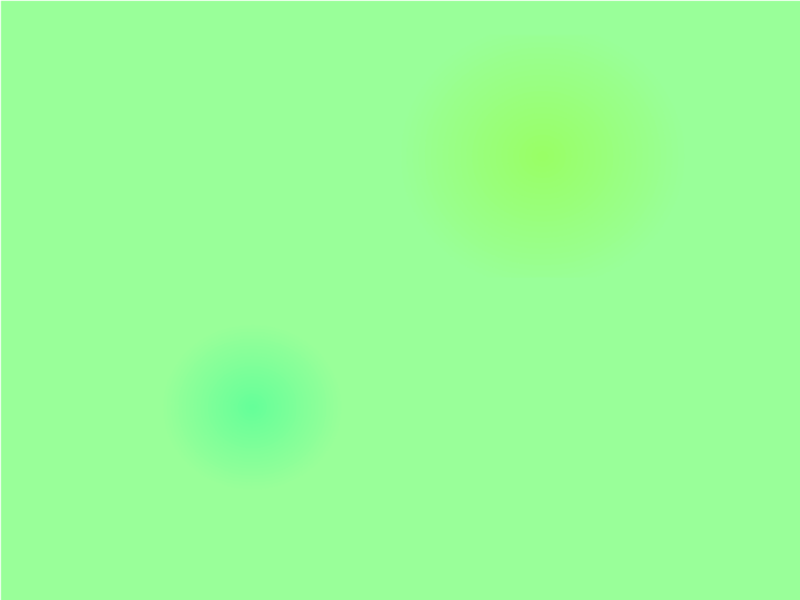
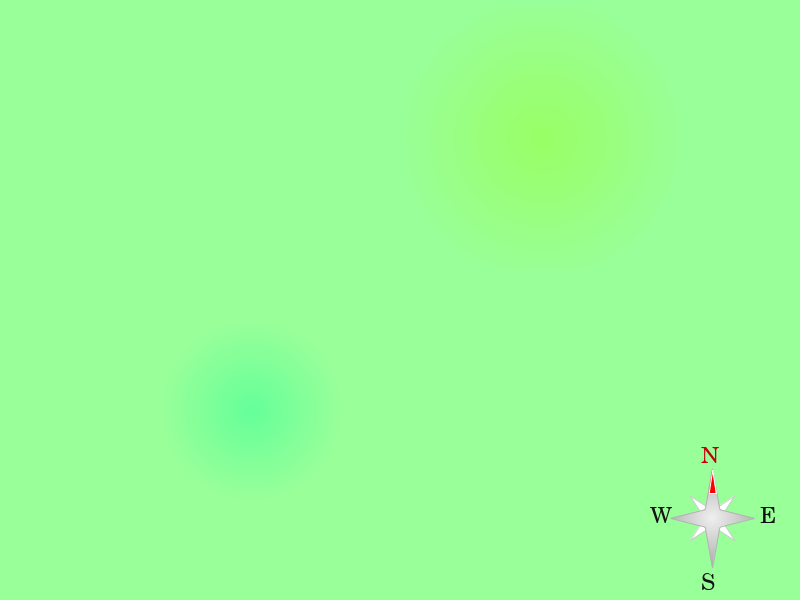
Add support for different backgrounds for different levels

Changed region(s): [[0.8125, 0.75, 0.9688, 0.99]]

diff --git a/compassgame.py b/compassgame.py
@@ -17,8 +17,8 @@ NEXT_LEVEL_ACTIONS = 30
 high_score_filename = 'compassgame_score.dat'
 
 #Background
-BACKGROUND_IMG = 'compassgame_background_01'
-#BACKGROUND_IMG = 'test.png'
+BACKGROUND_IMG_FILES = ['compassgame_background_01','compassgame_background_02'] 
+
 
 #Images for player in each direction - does not include final digit which is the image number
 #All must have 4 images ending with 1 to 4, except for jump and duck which only ends with 1
@@ -87,7 +87,7 @@ action_text = {'north':'Go north', 'south':'Go south',
 def draw():
     global high_score
     high_score = get_high_score()
-    screen.blit(BACKGROUND_IMG, (0,0))
+    screen.blit(get_background_img(), (0,0))
     # If game not running then give instruction
     if (game_state == ''):
         # Display message on screen
@@ -194,6 +194,7 @@ def update(time_interval):
     # If new direction is not "" then we have a move button pressed
     # so set appropriate image
     if (new_direction != ""):
+        print ("Setting direction. Was "+direction+" now "+new_direction)
         # Set image based on new_direction
         set_actor_image (direction, new_direction)
         direction = new_direction
@@ -294,7 +295,11 @@ def set_actor_image (direction, new_direction):
         
     player_step_position = math.floor(player_step_count / step_delay) +1
     
+    print ("Setting image "+PLAYER_IMG_DIRECTION[new_direction]+str(player_step_position))
+    
     player.image = PLAYER_IMG_DIRECTION[new_direction]+str(player_step_position)
+    
+    print ("Player image is now "+player.image)
     
     
 #Get next direction / jump / duck 
@@ -303,21 +308,21 @@ def get_next_move():
     return random.choice(move_choices)
     
     
-# Set new level by adding appropriate obstacles to list
+# Set new level by setting correct background and adding appropriate obstacles to list
 def set_level(level_number):
     global obstacles
 
     # Delete current obstacles
     obstacles = []    
     
-    # Start from level 2, this will mean we get two obstacles initially
-    if (level_number < 2):
+    # Start adding obstacles from level 3
+    if (level_number < 3):
         return
         
     # Max we can have is the number of obstacle_positions
     for i in range (0,len(obstacle_positions)):
-        # quit when we have reached correct number for this level (equal to the level number but indexed from 0)
-        if (i > level_number):
+        # quit when we have reached correct number for this level (equal to the level number -2 so first level with obstacles is level 3 with 2)
+        if (i > (level_number - 2)):
             break
         obstacles.append(Actor(random.choice(OBSTACLE_IMG_FILES), obstacle_positions[i]))
     
@@ -328,6 +333,13 @@ def hit_obstacle():
             return True
     return False
     
+# Gets background image from list (if not enough then return last one)
+def get_background_img():
+    # If level higher than num images return last entry
+    if game_level > len (BACKGROUND_IMG_FILES):
+        return BACKGROUND_IMG_FILES[-1]
+    else:
+        return BACKGROUND_IMG_FILES[game_level - 1]
     
 # Reads high score from file and returns as a number
 def get_high_score():
